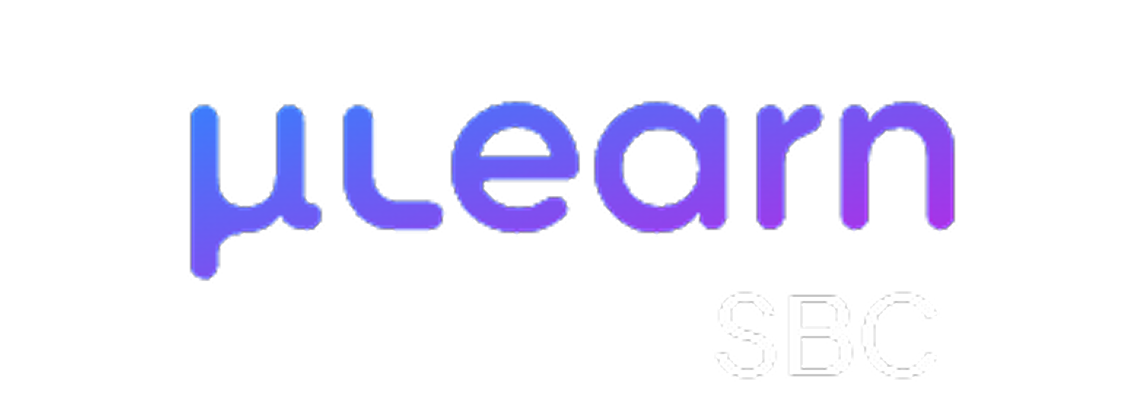
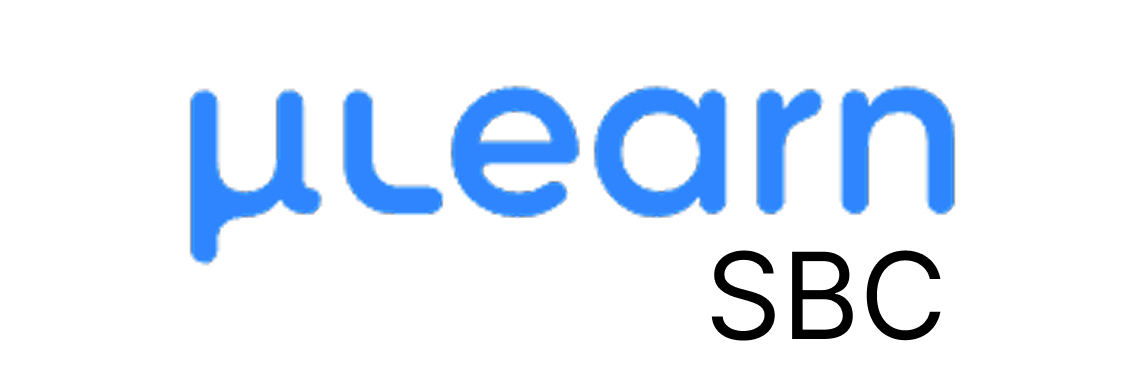
first commit

Changed region(s): [[0.1528, 0.2092, 0.8559, 0.7174], [0.6114, 0.6576, 0.8253, 0.9266]]

diff --git a/src/components/OpenPositions.tsx b/src/components/OpenPositions.tsx
@@ -6,9 +6,11 @@ const roles = [
   {
     title: "Chairperson",
     description: "Lead the executive committee and drive vision forward.",
-    image: "https://images.unsplash.com/photo-1519389950473-47ba0277781c?w=600&h=600&fit=crop",
+    image:
+      "https://images.unsplash.com/photo-1519389950473-47ba0277781c?w=600&h=600&fit=crop",
     tags: ["Leadership", "Strategy", "Management"],
-    fullDescription: "As Chairperson, you'll be the primary leader of our executive committee, responsible for setting the strategic direction and ensuring all departments work cohesively towards our shared goals. You'll represent the organization externally and inspire the team internally.",
+    fullDescription:
+      "As Chairperson, you'll be the primary leader of our executive committee, responsible for setting the strategic direction and ensuring all departments work cohesively towards our shared goals. You'll represent the organization externally and inspire the team internally.",
     responsibilities: [
       "Oversee all executive committee operations and initiatives",
       "Develop and communicate the organization's strategic vision",
@@ -26,9 +28,11 @@ const roles = [
   {
     title: "Technical Lead",
     description: "Spearhead technical projects and drive innovation.",
-    image: "https://images.unsplash.com/photo-1461749280684-dccba630e2f6?w=600&h=600&fit=crop",
+    image:
+      "https://images.unsplash.com/photo-1461749280684-dccba630e2f6?w=600&h=600&fit=crop",
     tags: ["Tech", "Development", "Innovation"],
-    fullDescription: "As Technical Lead, you'll oversee all technology-related initiatives, from website development to digital tools. You'll lead a team of talented developers and ensure our technical infrastructure supports the organization's goals.",
+    fullDescription:
+      "As Technical Lead, you'll oversee all technology-related initiatives, from website development to digital tools. You'll lead a team of talented developers and ensure our technical infrastructure supports the organization's goals.",
     responsibilities: [
       "Lead the development and maintenance of digital platforms",
       "Manage and mentor the technical team members",
@@ -46,9 +50,11 @@ const roles = [
   {
     title: "Design Head",
     description: "Shape our visual identity and creative direction.",
-    image: "https://images.unsplash.com/photo-1561070791-2526d30994b5?w=600&h=600&fit=crop",
+    image:
+      "https://images.unsplash.com/photo-1561070791-2526d30994b5?w=600&h=600&fit=crop",
     tags: ["Design", "Creative", "Branding"],
-    fullDescription: "As Design Head, you'll be the creative visionary behind our visual identity. From event materials to digital presence, you'll ensure consistency and excellence in all design outputs while leading a talented creative team.",
+    fullDescription:
+      "As Design Head, you'll be the creative visionary behind our visual identity. From event materials to digital presence, you'll ensure consistency and excellence in all design outputs while leading a talented creative team.",
     responsibilities: [
       "Develop and maintain the organization's visual brand identity",
       "Lead the design team in creating compelling visual content",
@@ -66,9 +72,11 @@ const roles = [
   {
     title: "Events Coordinator",
     description: "Plan memorable events that unite the community.",
-    image: "https://images.unsplash.com/photo-1540575467063-178a50c2df87?w=600&h=600&fit=crop",
+    image:
+      "https://images.unsplash.com/photo-1540575467063-178a50c2df87?w=600&h=600&fit=crop",
     tags: ["Events", "Planning", "Community"],
-    fullDescription: "As Events Coordinator, you'll be responsible for bringing our community together through engaging and memorable events. From ideation to execution, you'll manage every aspect of event planning while working with various teams.",
+    fullDescription:
+      "As Events Coordinator, you'll be responsible for bringing our community together through engaging and memorable events. From ideation to execution, you'll manage every aspect of event planning while working with various teams.",
     responsibilities: [
       "Plan and execute a diverse calendar of events",
       "Manage event budgets and logistics",
@@ -86,9 +94,11 @@ const roles = [
   {
     title: "Content Lead",
     description: "Craft compelling narratives across platforms.",
-    image: "https://images.unsplash.com/photo-1455390582262-044cdead277a?w=600&h=600&fit=crop",
+    image:
+      "https://images.unsplash.com/photo-1455390582262-044cdead277a?w=600&h=600&fit=crop",
     tags: ["Content", "Writing", "Strategy"],
-    fullDescription: "As Content Lead, you'll be the voice of our organization across all platforms. You'll develop content strategies, create engaging narratives, and ensure consistent messaging that resonates with our audience.",
+    fullDescription:
+      "As Content Lead, you'll be the voice of our organization across all platforms. You'll develop content strategies, create engaging narratives, and ensure consistent messaging that resonates with our audience.",
     responsibilities: [
       "Develop and execute comprehensive content strategies",
       "Create and edit content for all platforms and channels",
@@ -106,9 +116,11 @@ const roles = [
   {
     title: "PR & Outreach",
     description: "Build partnerships and expand our influence.",
-    image: "https://images.unsplash.com/photo-1556761175-5973dc0f32e7?w=600&h=600&fit=crop",
+    image:
+      "https://images.unsplash.com/photo-1556761175-5973dc0f32e7?w=600&h=600&fit=crop",
     tags: ["PR", "Networking", "Partnerships"],
-    fullDescription: "As PR & Outreach lead, you'll be the bridge between our organization and the external world. You'll build strategic partnerships, manage media relations, and expand our influence within the industry.",
+    fullDescription:
+      "As PR & Outreach lead, you'll be the bridge between our organization and the external world. You'll build strategic partnerships, manage media relations, and expand our influence within the industry.",
     responsibilities: [
       "Develop and maintain relationships with partners and sponsors",
       "Manage media relations and press communications",
@@ -126,28 +138,31 @@ const roles = [
 ];
 
 const OpenPositions = () => {
-  const [selectedRole, setSelectedRole] = useState<typeof roles[0] | null>(null);
+  const [selectedRole, setSelectedRole] = useState<(typeof roles)[0] | null>(
+    null
+  );
   const [isModalOpen, setIsModalOpen] = useState(false);
 
-  const handleCardClick = (role: typeof roles[0]) => {
+  const handleCardClick = (role: (typeof roles)[0]) => {
     setSelectedRole(role);
     setIsModalOpen(true);
   };
 
   return (
-    <section id="positions" className="relative py-20 lg:py-20">
+    <section id="positions" className="relative py-20 lg:py-20 bg-blue-50">
       {/* Background accent */}
       <div className="absolute inset-0 bg-gradient-to-b from-transparent via-primary/5 to-transparent pointer-events-none" />
 
       <div className="relative z-10 max-w-7xl mx-auto px-4 sm:px-6 lg:px-8">
         {/* Section Header */}
         <div className="text-center mb-16">
-          <h2 className="text-3xl sm:text-4xl lg:text-5xl font-bold text-foreground mb-4">
+          <h2 className="text-3xl sm:text-4xl lg:text-5xl font-bold text-black mb-4">
             Open Positions
           </h2>
           <div className="w-24 h-1 bg-primary mx-auto rounded-full mb-6 shadow-lg shadow-primary/50" />
           <p className="text-lg text-muted-foreground max-w-2xl mx-auto">
-            Pick a role that matches your skills and passion. Each position offers unique growth opportunities.
+            Pick a role that matches your skills and passion. Each position
+            offers unique growth opportunities.
           </p>
         </div>
 

diff --git a/src/components/ContactSection.tsx b/src/components/ContactSection.tsx
@@ -56,7 +56,7 @@ const ContactSection = () => {
   };
 
   return (
-    <section id="contact" className="relative pt-20 lg:pt-15 pb-5">
+    <section id="contact" className="relative pt-20 lg:pt-15 pb-5 bg-blue-50">
       {/* Top Border Glow */}
       <div className="absolute top-0 left-0 right-0 h-px bg-gradient-to-r from-transparent via-primary to-transparent" />
 
@@ -65,7 +65,7 @@ const ContactSection = () => {
           {/* Left Column - Contact Info */}
           <div className="space-y-8">
             <div>
-              <h2 className="text-3xl sm:text-4xl lg:text-5xl font-bold text-foreground mb-4">
+              <h2 className="text-3xl sm:text-4xl lg:text-5xl font-bold text-black mb-4">
                 Get in Touch
               </h2>
               <p className="text-lg text-muted-foreground">
@@ -80,16 +80,14 @@ const ContactSection = () => {
                 href="mailto:execom@organization.com"
                 target="_blank"
                 rel="noopener noreferrer"
-                className="flex items-center gap-4 p-4 glass-card hover:glow-border transition-all group"
+                className="flex items-center gap-4 p-4 glass-card bg-white hover:glow-border transition-all group"
               >
                 <div className="w-12 h-12 rounded-xl bg-primary/10 flex items-center justify-center group-hover:bg-primary/20 transition-colors">
                   <Mail className="w-5 h-5 text-primary" />
                 </div>
                 <div>
                   <p className="text-sm text-muted-foreground">Email</p>
-                  <p className="text-foreground font-medium">
-                    mulearnsbc@gmail.com
-                  </p>
+                  <p className="text-black font-medium">mulearnsbc@gmail.com</p>
                 </div>
               </a>
 
@@ -97,7 +95,7 @@ const ContactSection = () => {
                 href="tel:+1234567890"
                 target="_blank"
                 rel="noopener noreferrer"
-                className="flex items-center gap-4 p-4 glass-card hover:glow-border transition-all group"
+                className="flex items-center gap-4 p-4 glass-card bg-white hover:glow-border transition-all group"
               >
                 <div className="w-12 h-12 rounded-xl bg-primary/10 flex items-center justify-center group-hover:bg-primary/20 transition-colors">
                   <Phone className="w-5 h-5 text-primary" />
@@ -106,7 +104,7 @@ const ContactSection = () => {
                   <p className="text-sm text-muted-foreground">
                     Phone / WhatsApp
                   </p>
-                  <p className="text-foreground font-medium">+91 9562321151</p>
+                  <p className="text-black font-medium">+91 9562321151</p>
                 </div>
               </a>
             </div>
@@ -119,7 +117,7 @@ const ContactSection = () => {
                   href="https://www.google.com/url?sa=t&rct=j&q=&esrc=s&source=web&cd=&ved=2ahUKEwjXsITz0KuRAxXkR2wGHWYnKC0QFnoECBoQAQ&url=https%3A%2F%2Fwww.instagram.com%2Fmulearn.sbc%2F&usg=AOvVaw3xQVYtiHC5OnW810IhHd08&opi=89978449"
                   target="_blank"
                   rel="noopener noreferrer"
-                  className="w-12 h-12 rounded-xl bg-secondary flex items-center justify-center hover:bg-primary/20 hover:text-primary transition-all"
+                  className="w-12 h-12 rounded-xl bg-white text-black flex items-center justify-center hover:bg-primary/20 hover:text-primary transition-all"
                 >
                   <Instagram className="w-5 h-5" />
                 </a>
@@ -127,7 +125,7 @@ const ContactSection = () => {
                   href="https://www.linkedin.com/company/mulearnsbc/posts/?feedView=all"
                   target="_blank"
                   rel="noopener noreferrer"
-                  className="w-12 h-12 rounded-xl bg-secondary flex items-center justify-center hover:bg-primary/20 hover:text-primary transition-all"
+                  className="w-12 h-12 rounded-xl bg-white text-black flex items-center justify-center hover:bg-primary/20 hover:text-primary transition-all"
                 >
                   <Linkedin className="w-5 h-5" />
                 </a>

diff --git a/src/index.css b/src/index.css
@@ -6,48 +6,48 @@
 
 @layer base {
   :root {
-    --background: 260 60% 3%;
-    --foreground: 0 0% 95%;
+    --background: 0 0% 100%;
+    --foreground: 0 0% 0%;
 
-    --card: 260 50% 6%;
-    --card-foreground: 0 0% 95%;
+    --card: 0 0% 98%;
+    --card-foreground: 0 0% 0%;
 
-    --popover: 260 50% 5%;
-    --popover-foreground: 0 0% 95%;
+    --popover: 0 0% 97%;
+    --popover-foreground: 0 0% 0%;
 
-    --primary: 262 83% 58%;
+    --primary: 210 100% 50%;
     --primary-foreground: 0 0% 100%;
 
-    --secondary: 260 40% 12%;
-    --secondary-foreground: 0 0% 95%;
+    --secondary: 210 20% 90%;
+    --secondary-foreground: 0 0% 0%;
 
-    --muted: 260 30% 15%;
-    --muted-foreground: 260 10% 60%;
+    --muted: 210 10% 85%;
+    --muted-foreground: 0 0% 0%;
 
-    --accent: 270 91% 65%;
+    --accent: 210 100% 70%;
     --accent-foreground: 0 0% 100%;
 
     --destructive: 0 84.2% 60.2%;
     --destructive-foreground: 210 40% 98%;
 
-    --border: 260 30% 18%;
-    --input: 260 30% 12%;
-    --ring: 262 83% 58%;
+    --border: 210 10% 80%;
+    --input: 0 0% 95%;
+    --ring: 210 100% 50%;
 
     --radius: 1rem;
 
     /* Custom design tokens */
-    --gradient-primary: linear-gradient(135deg, hsl(262 83% 58%) 0%, hsl(270 91% 65%) 50%, hsl(280 80% 60%) 100%);
-    --gradient-hero: linear-gradient(135deg, hsl(260 60% 3%) 0%, hsl(260 50% 8%) 50%, hsl(270 40% 12%) 100%);
-    --gradient-card: linear-gradient(180deg, hsl(260 50% 8%) 0%, hsl(260 50% 5%) 100%);
-    
-    --glow-purple: 0 0 40px hsl(262 83% 58% / 0.4);
-    --glow-purple-intense: 0 0 60px hsl(262 83% 58% / 0.6);
-    --glow-subtle: 0 0 20px hsl(262 83% 58% / 0.2);
-    
-    --glass-bg: hsl(260 50% 8% / 0.6);
-    --glass-border: hsl(262 83% 58% / 0.2);
-    
+    --gradient-primary: linear-gradient(135deg, hsl(210 100% 50%) 0%, hsl(210 100% 70%) 50%, hsl(200 100% 60%) 100%);
+    --gradient-hero: linear-gradient(135deg, hsl(210 100% 95%) 0%, hsl(210 100% 90%) 50%, hsl(200 100% 85%) 100%);
+    --gradient-card: linear-gradient(180deg, hsl(210 20% 95%) 0%, hsl(210 20% 97%) 100%);
+
+    --glow-blue: 0 0 40px hsl(210 100% 50% / 0.4);
+    --glow-blue-intense: 0 0 60px hsl(210 100% 50% / 0.6);
+    --glow-subtle: 0 0 20px hsl(210 100% 50% / 0.2);
+
+    --glass-bg: hsl(0 0% 95% / 0.6);
+    --glass-border: hsl(210 100% 50% / 0.2);
+
     --transition-smooth: all 0.3s cubic-bezier(0.4, 0, 0.2, 1);
   }
 
@@ -69,7 +69,7 @@
   body {
     @apply bg-background text-foreground font-sans antialiased;
     font-family: 'Inter', sans-serif;
-    background: linear-gradient(180deg, hsl(260 60% 3%) 0%, hsl(260 50% 4%) 100%);
+    background: linear-gradient(180deg, hsl(210 100% 98%) 0%, hsl(210 100% 95%) 100%);
   }
 }
 
@@ -81,8 +81,8 @@
   }
 
   .glow-border {
-    box-shadow: inset 0 0 0 1px hsl(262 83% 58% / 0.3),
-                0 0 30px hsl(262 83% 58% / 0.15);
+    box-shadow: inset 0 0 0 1px hsl(210 100% 50% / 0.3),
+                0 0 30px hsl(210 100% 50% / 0.15);
   }
 
   .gradient-text {
@@ -133,8 +133,8 @@
 
   .role-card:hover {
     transform: translateY(-4px);
-    border-color: hsl(262 83% 58% / 0.4);
-    box-shadow: var(--glow-purple);
+    border-color: hsl(210 100% 50% / 0.4);
+    box-shadow: var(--glow-blue);
   }
 
   .input-field {

diff --git a/src/components/AboutSection.tsx b/src/components/AboutSection.tsx
@@ -25,31 +25,32 @@ const features = [
 
 const AboutSection = () => {
   return (
-    <section id="about" className="relative py-20 lg:py-25">
+    <section id="about" className="relative py-20 lg:py-25 bg-blue-50">
       <div className="max-w-7xl mx-auto px-4 sm:px-6 lg:px-8">
         {/* Section Header */}
         <div className="text-center mb-16">
-          <h2 className="text-3xl sm:text-4xl lg:text-5xl font-bold text-foreground mb-4">
+          <h2 className="text-3xl sm:text-4xl lg:text-5xl font-bold text-black mb-4">
             Why Join Our Execom?
           </h2>
           <div className="w-24 h-1 bg-primary mx-auto rounded-full mb-6 shadow-lg shadow-primary/50" />
           <p className="text-lg text-muted-foreground max-w-2xl mx-auto">
-            Being part of the executive committee is more than a title—it's a transformative experience.
+            Being part of the executive committee is more than a title—it's a
+            transformative experience.
           </p>
         </div>
 
         {/* Features Grid */}
-        <div className="grid sm:grid-cols-2 lg:grid-cols-4 gap-6">
+        <div className="grid sm:grid-cols-2 lg:grid-cols-4 gap-6 ">
           {features.map((feature, index) => (
             <div
               key={feature.title}
-              className="glass-card p-6 text-center group hover:glow-border transition-all duration-300 animate-fade-up"
+              className="glass-card bg-white p-6 text-center group hover:glow-border transition-all duration-300 animate-fade-up"
               style={{ animationDelay: `${index * 0.1}s` }}
             >
               <div className="w-14 h-14 rounded-2xl bg-primary/10 flex items-center justify-center mx-auto mb-4 group-hover:bg-primary/20 transition-colors">
                 <feature.icon className="w-7 h-7 text-primary" />
               </div>
-              <h3 className="text-lg font-semibold text-foreground mb-2">
+              <h3 className="text-lg font-semibold text-black mb-2">
                 {feature.title}
               </h3>
               <p className="text-sm text-muted-foreground leading-relaxed">

diff --git a/src/components/Navbar.tsx b/src/components/Navbar.tsx
@@ -32,7 +32,7 @@ const Navbar = () => {
     <nav
       className={`fixed top-0 left-0 right-0 z-50 transition-all duration-500 ${
         isScrolled
-          ? "bg-background/90 backdrop-blur-xl border-b border-primary/20 shadow-lg"
+          ? "bg-white/90 backdrop-blur-xl border-b border-primary/20 shadow-lg"
           : "bg-transparent"
       }`}
     >
@@ -60,7 +60,7 @@ const Navbar = () => {
                   e.preventDefault();
                   scrollToSection(link.href);
                 }}
-                className="nav-link text-sm font-medium"
+                className="nav-link text-sm font-medium hover:text-primary"
               >
                 {link.name}
               </a>

diff --git a/src/components/HeroCarousel.tsx b/src/components/HeroCarousel.tsx
@@ -50,7 +50,7 @@ const HeroCarousel = () => {
             <div className="w-16 h-16 rounded-2xl bg-primary/20 flex items-center justify-center mb-6 glow-border">
               <slide.icon className="w-8 h-8 text-primary" />
             </div>
-            <h3 className="text-xl font-bold text-foreground mb-3">{slide.title}</h3>
+            <h3 className="text-xl font-bold text-black mb-3">{slide.title}</h3>
             <p className="text-muted-foreground leading-relaxed">{slide.description}</p>
           </div>
         ))}

diff --git a/src/components/HeroSection.tsx b/src/components/HeroSection.tsx
@@ -57,7 +57,7 @@ const HeroSection = () => {
 
             {/* Heading */}
             <h1
-              className="text-4xl sm:text-5xl lg:text-6xl xl:text-6xl font-bold text-foreground leading-tight animate-fade-up"
+              className="text-4xl sm:text-5xl lg:text-6xl xl:text-6xl font-bold text-black leading-tight animate-fade-up"
               style={{ animationDelay: "0.2s" }}
             >
               Join the <span className="gradient-text">Next Gen</span>

diff --git a/tailwind.config.ts b/tailwind.config.ts
@@ -105,7 +105,7 @@ export default {
       },
       backgroundImage: {
         "gradient-radial": "radial-gradient(var(--tw-gradient-stops))",
-        "gradient-hero": "linear-gradient(135deg, hsl(260 60% 3%) 0%, hsl(260 50% 8%) 50%, hsl(270 40% 12%) 100%)",
+        "gradient-hero": "linear-gradient(135deg, hsl(210 100% 95%) 0%, hsl(210 100% 90%) 50%, hsl(200 100% 85%) 100%)",
       },
     },
   },

diff --git a/TODO.md b/TODO.md
@@ -1,0 +1,2 @@
+- [x] Change background color of cards in AboutSection from grey to white by adding 'bg-white' class
+- [x] Change background color of email and phone cards in ContactSection from grey to white by adding 'bg-white' class
